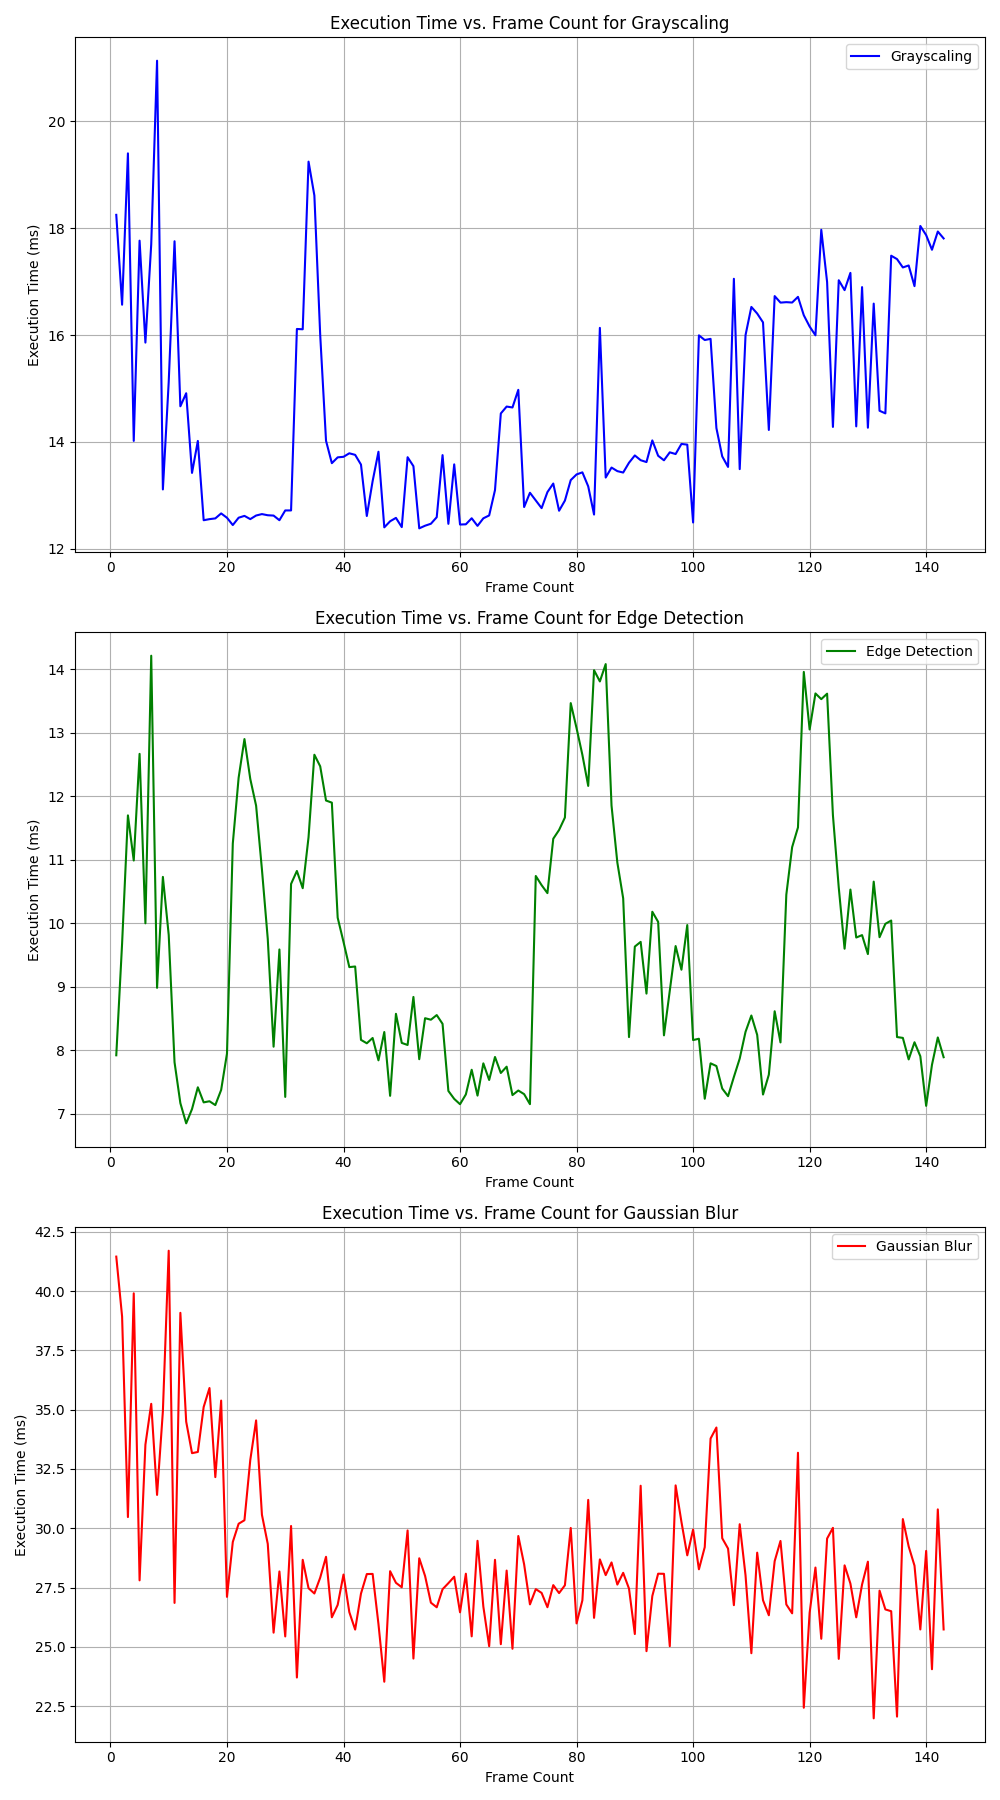
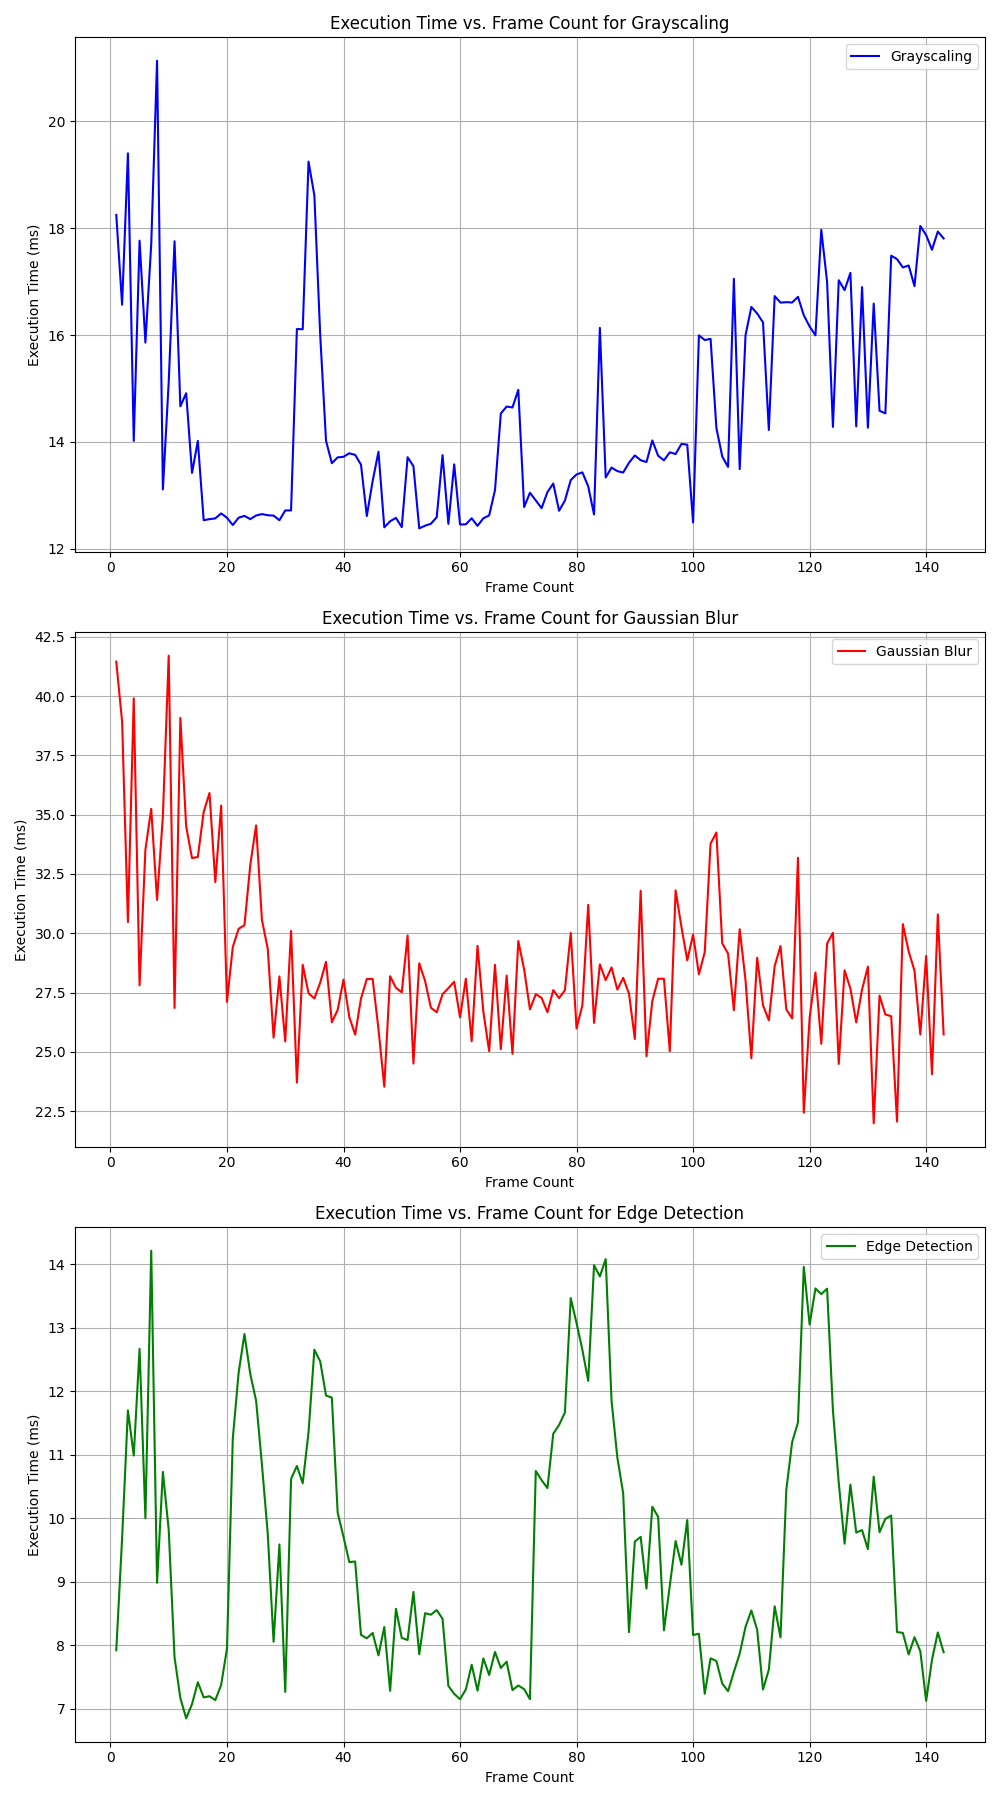
performed cleanup on visualisation

diff --git a/src/RealtimeImageProcessing/results/visualisation.py b/src/RealtimeImageProcessing/results/visualisation.py
@@ -79,11 +79,11 @@ fig, axs = plt.subplots(3, 1, figsize=(10, 18))  # 3 rows, 1 column
 # Plot Grayscaling
 plot_method(axs[0], 'Grayscaling', frame_count, grayscale_times, 'blue')
 
-# Plot Edge Detection
-plot_method(axs[1], 'Edge Detection', frame_count, edge_times, 'green')
-
 # Plot Gaussian Blur
-plot_method(axs[2], 'Gaussian Blur', frame_count, gaussian_times, 'red')
+plot_method(axs[1], 'Gaussian Blur', frame_count, gaussian_times, 'red')
+
+# Plot Edge Detection
+plot_method(axs[2], 'Edge Detection', frame_count, edge_times, 'green')
 
 # Adjust layout to prevent overlap
 plt.tight_layout()
